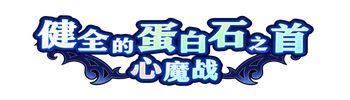
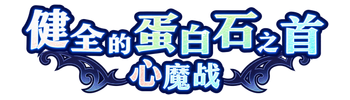
fix(resources): 纳入验收通过的等比心魔战重制图
文档：更新累计剧情发布回执与贡献交付状态，完整基线保持不动。

diff --git a/docs/story-quality/client-integration/GAME_RESOURCE_FINAL_20261003.md b/docs/story-quality/client-integration/GAME_RESOURCE_FINAL_20261003.md
@@ -17,3 +17,11 @@
 玩家只需要独立公开仓库与 Cloudflare 入口，不需要私有源仓访问权。发布程序根据源仓可见性采用认证 API 回读；公开目标始终匿名核验。镜像工作流使用 SOURCE_TOKEN 读取源仓，TARGET_TOKEN 写公开仓库；临时 Git 认证仅限源仓 URL，退出后清除，不写入配置和制品。
 
 保持已有 schedule/workflow_run/push 联动及共用发布锁；私有仓 Actions 可用额度、GH_TOKEN 对两个仓库的权限必须仍有效。后续客户端仍以人工明确的已实测 APK 摘要触发发布，私有化不放开此门。
+
+## 本轮实测与新图验收接续
+
+累计 delta 24 已正式发布，源仓与公开仓的四个 delta 附件一致；最终安装后的 16,758 个文件与最新权威生产源和固定基线重放结果吻合，缓存另行核验。361 个剧情目标已交付，359 个文件实际改变，其他既有剧情保留。以 GAME_DELIVERY_RECEIPT.json 为证，不再沿用 Reader 交接时的“游戏尚未发布”状态。
+
+两张重制心魔战图（6015 / 6017）已经用户明确验收通过。本轮统一等比输出至原生 350×100 画布，拒绝非等比拉伸；纳入下一累计 delta，不额外计作新增翻译图。其他已验收图保持不动。
+
+最终 APK 1.0.204 已安装在模拟器-1，手动 delta 重下、重下完整 JS 后联网重下 delta 已实际通过；Scenario 重下链正在实测，未完成前保持公开 APK 1.0.202。后续完整回执更新 CLIENT_RECEIPT.json。
